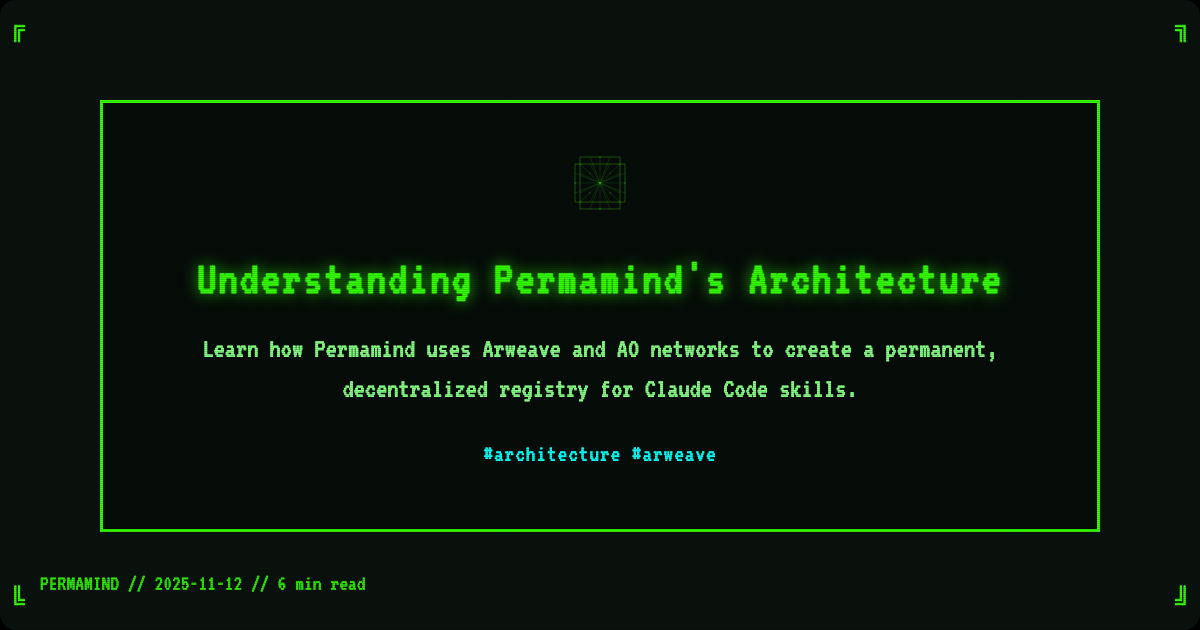
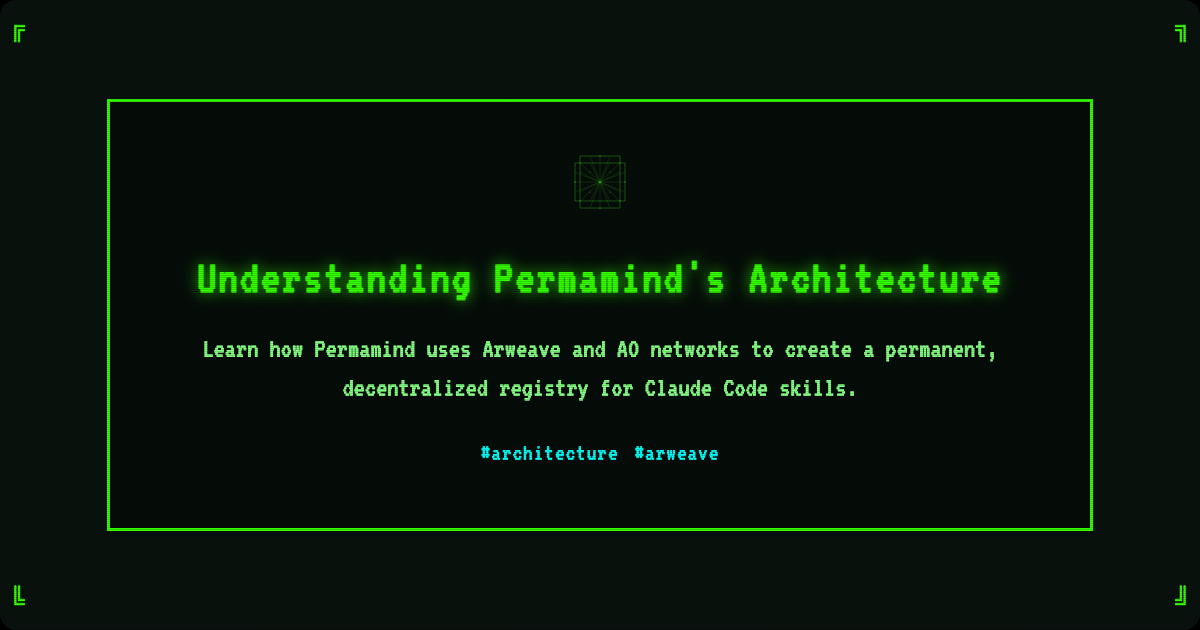
Improve permaweb-mcp-guide blog post: fix hero image spacing and streamline content
## Changes

### Hero Image Improvements
- Remove bottom metadata text from all blog hero images (no more overlap)
- Center content vertically with flexbox for equal top/bottom spacing
- Add proper tag spacing (8px margin between tags)
- Wrap tags in spans for better alignment
- Add #ao tag to permaweb-mcp-guide post

### Content Streamlining
- Remove Environment Configuration section
- Remove Common Workflows section
- Remove What's Next section
- Improve content flow and readability

### Technical Updates
- Update create-blog-preview.js: remove .bottom-brand CSS and HTML
- Add flexbox centering to .terminal-body
- Simplify .ascii-border margin to auto
- Add .tag class with proper vertical alignment
- Regenerate all 4 blog preview images

🤖 Generated with [Claude Code](https://claude.com/claude-code)

diff --git a/frontend/create-blog-preview.js b/frontend/create-blog-preview.js
@@ -89,12 +89,14 @@ async function createBlogPreview(blogPost) {
             line-height: 1.5;
             position: relative;
             overflow: hidden;
+            display: flex;
+            align-items: center;
+            justify-content: center;
         }
 
         .ascii-border {
             border: 3px solid #33ff00;
             padding: 40px;
-            margin: 60px auto 120px auto;
             max-width: 1000px;
             text-align: center;
             background: rgba(0, 0, 0, 0.3);
@@ -147,13 +149,10 @@ async function createBlogPreview(blogPost) {
             letter-spacing: 1px;
         }
 
-        .bottom-brand {
-            position: absolute;
-            bottom: 30px;
-            left: 40px;
-            font-size: 22px;
-            color: #33ff00;
-            opacity: 0.9;
+        .tag {
+            display: inline-block;
+            vertical-align: baseline;
+            margin: 0 8px;
         }
 
         /* Border decoration */
@@ -191,12 +190,8 @@ async function createBlogPreview(blogPost) {
                 </div>
 
                 <div class="terminal-line tag-line">
-                    ${blogPost.tags.map(tag => `#${tag}`).join(' ')}
+                    ${blogPost.tags.map(tag => `<span class="tag">#${tag}</span>`).join(' ')}
                 </div>
-            </div>
-
-            <div class="bottom-brand">
-                PERMAMIND // ${blogPost.date} // ${blogPost.readTime} min read
             </div>
         </div>
     </div>
@@ -266,7 +261,7 @@ const blogPosts = [
         slug: 'permaweb-mcp-guide',
         title: 'Permaweb-MCP: Your Gateway to AO and Arweave Development',
         date: '2025-11-16',
-        tags: ['mcp', 'arweave'],
+        tags: ['mcp', 'arweave', 'ao'],
         excerpt: 'Transform how you interact with AO and Arweave through natural language. Deploy apps, manage processes, and register domains with Claude AI.',
         readTime: 8,
     },

diff --git a/frontend/src/data/blog-posts.ts b/frontend/src/data/blog-posts.ts
@@ -63,7 +63,7 @@ export const blogPosts: BlogPost[] = [
     title: 'Permaweb-MCP: Your Gateway to AO and Arweave Development',
     date: '2025-11-16',
     author: 'Permamind Team',
-    tags: ['mcp', 'arweave'],
+    tags: ['mcp', 'arweave', 'ao'],
     excerpt:
       'Transform how you interact with AO and Arweave through natural language. Deploy apps, manage processes, and register domains with Claude AI.',
     readTime: 8, // ~1600 words / 200 wpm = 8 min

diff --git a/frontend/public/blog/permaweb-mcp-guide.md b/frontend/public/blog/permaweb-mcp-guide.md
@@ -92,18 +92,6 @@ Add Permaweb-MCP to your Claude Desktop configuration (`claude_desktop_config.js
 
 **Security Note**: Your seed phrase enables wallet access. Store it securely and never commit it to version control.
 
-### Environment Configuration
-
-**Required**:
-- `SEED_PHRASE`: 12-word mnemonic for deterministic wallet generation
-
-**Optional**:
-- `NODE_ENV`: Set to `production` or `development`
-- `AO_SCHEDULER`: Custom AO scheduler endpoint
-- `AO_MODULE`: Custom AO module ID
-- `DEBUG`: Enable debug logging
-- `MCP_LOG_LEVEL`: Control log verbosity
-
 ## Real-World Usage Examples
 
 ### Example 1: Deploy a Website to the Permaweb
@@ -238,29 +226,6 @@ Create a production build:
 npm run build
 ```
 
-## Common Workflows
-
-### Publishing a Web Application
-
-1. **Build** your application (`npm run build`, `vite build`, etc.)
-2. **Check prerequisites** with `checkPermawebDeployPrerequisites`
-3. **Deploy** using `deployPermawebDirectory` with your ArNS domain
-4. **Verify** deployment at `https://yourdomain.ar`
-
-### Creating an AO Agent
-
-1. **Spawn** a new process with `spawnProcess`
-2. **Deploy code** using `sendAOMessage` with `Action: Eval`
-3. **Test interaction** with `readAOProcess` queries
-4. **Monitor activity** using `queryAOProcessMessages`
-
-### Managing Domains
-
-1. **Check availability** with `getArnsRecordInfo`
-2. **Calculate cost** using `getArnsTokenCost`
-3. **Register domain** via `buyArnsRecord`
-4. **Update targets** with `updateArnsRecord` as you deploy new versions
-
 ## Why Use Permaweb-MCP?
 
 ### For AI-Assisted Development
@@ -332,24 +297,6 @@ npm run build
 - **GitHub Issues**: https://github.com/ALLiDoizCode/Permaweb-MCP/issues
 - **Discord Community**: https://discord.gg/yDJFBtfS4K
 - **Documentation**: https://github.com/ALLiDoizCode/Permaweb-MCP#readme
-
-## What's Next?
-
-### Advanced Features
-
-- **Custom AO Modules**: Deploy processes with custom WASM modules
-- **Multi-Signature Wallets**: Coordinate deployments across team wallets
-- **Atomic Swaps**: Integrate with AO token protocols
-- **Gateway Selection**: Choose optimal gateways for your region
-
-### Integrations
-
-Permaweb-MCP works seamlessly with:
-
-- **Claude Desktop**: Native MCP support
-- **VS Code**: Through Claude Code extension
-- **Cursor IDE**: MCP integration for AI pair programming
-- **Custom Clients**: Any MCP-compatible application
 
 ## Conclusion
 
